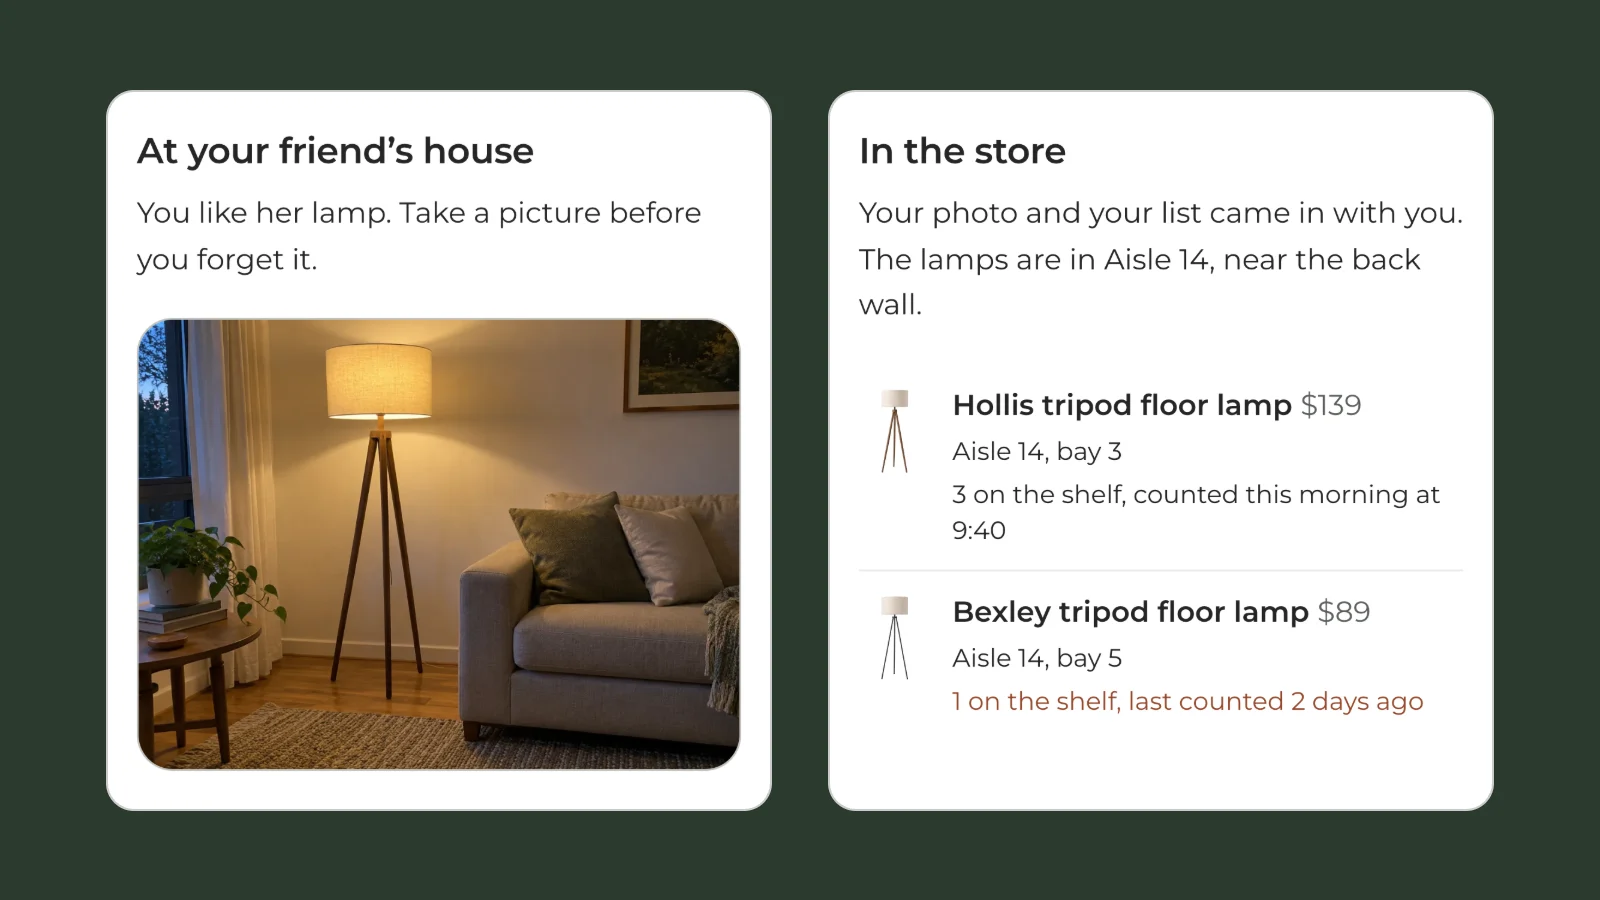
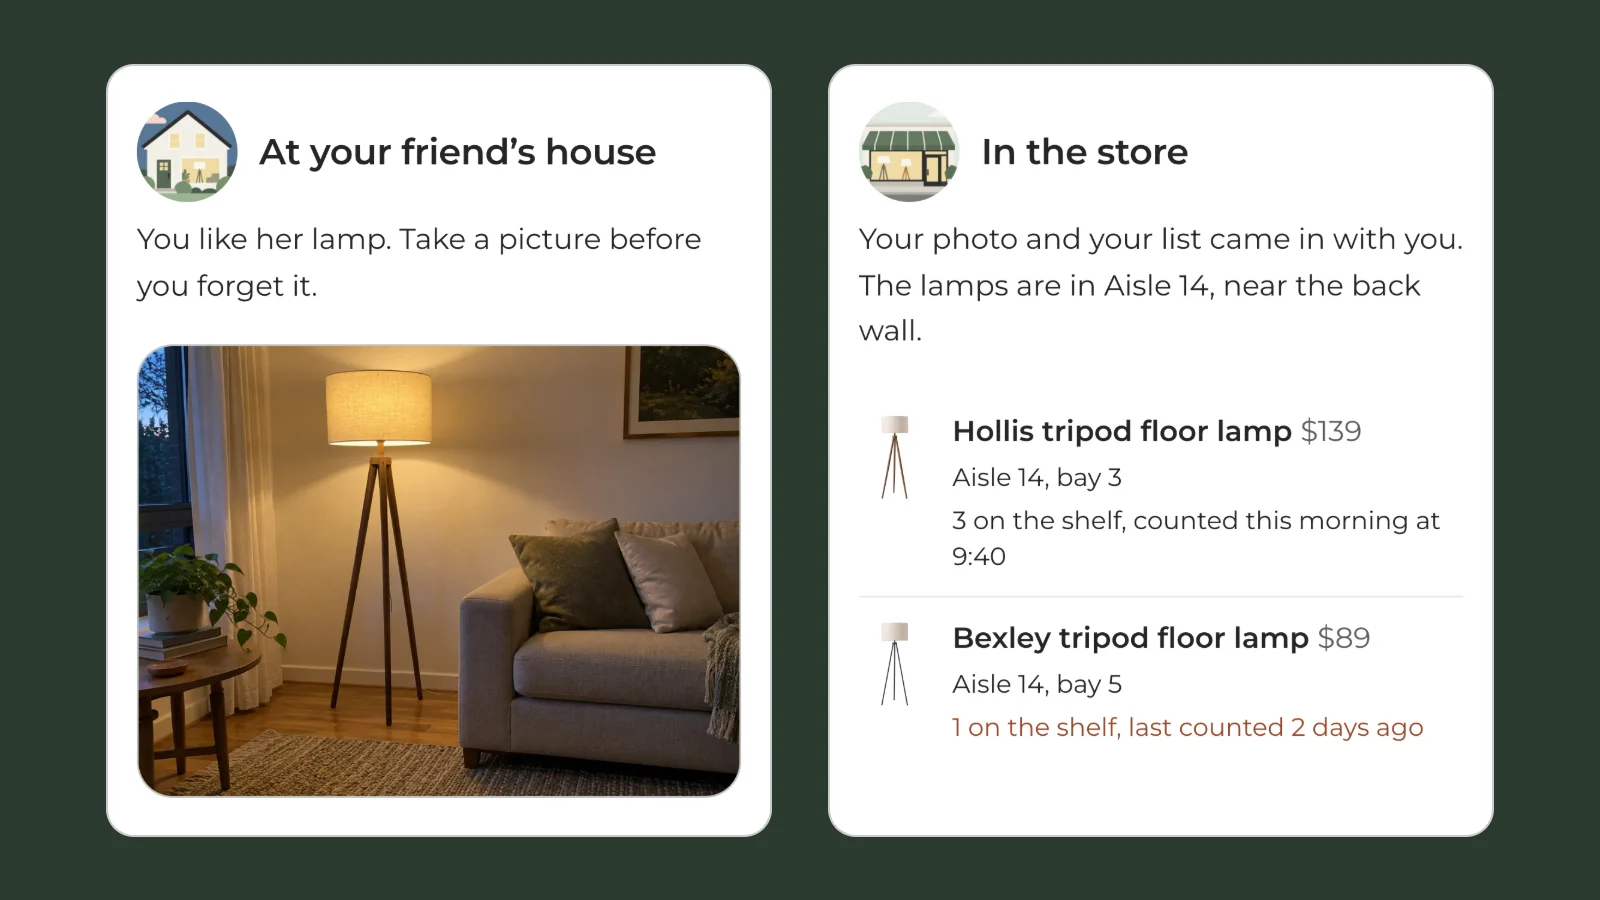
From Inspiration to Aisle: the prototype's two places carry a picture of the place. "At your friend's house" and "In the store" each open on a small drawing cut to a circle beside the title: a house at dusk with the lamp in its window, and a storefront with lamps in its window. Bold flat shapes, dra

Changed region(s): [[0.0625, 0.0622, 0.9375, 0.9333], [0.5312, 0.6533, 0.9062, 0.84], [0.5312, 0.4356, 0.9062, 0.6222]]

diff --git a/prototype/aisle.js b/prototype/aisle.js
@@ -101,6 +101,15 @@
     return '<img class="ai-art" src="../img/lab/' + art + '?v=1" width="240" height="300" decoding="async" alt="">';
   }
 
+  /* ---------- the title's badge ----------
+     A small drawing in a circle beside the title on the two screens that
+     are a place: the friend's house and the store. Drawn in ChatGPT as one
+     sheet and cut by scripts/aisle-badges.mjs; alt="", the title is the text. */
+  function titled(kind, title) {
+    return '<div class="ai-head-row"><img class="ai-badge" src="../img/lab/aisle-badge-' + kind + '.webp?v=1" width="192" height="192" decoding="async" alt="">' +
+      '<h3 class="ai-title" tabindex="-1">' + title + '</h3></div>';
+  }
+
   /* ---------- small helpers ---------- */
 
   function dollars(n) { return '$' + n; }
@@ -124,7 +133,7 @@
   var screens = {};
 
   screens.home = function () {
-    return '<header class="ai-head">' + '<h3 class="ai-title" tabindex="-1">At your friend’s house</h3>' +
+    return '<header class="ai-head">' + titled('house', 'At your friend’s house') +
       '<p class="ai-dek">You like her lamp. Take a picture before you forget it.</p></header>' +
       '<figure class="ai-photo">' +
         '<div class="ai-photo-frame"><img class="ai-photo-img" src="../img/lab/aisle-maya-photo.webp?v=1" width="1200" height="900" decoding="async" alt="The lamp in your friend’s living room, lit, between a side table and the sofa."></div>' +
@@ -193,7 +202,7 @@
   screens.store = function () {
     var saved = savedLamps();
     var s = back('plan', 'Before you go') +
-      '<header class="ai-head"><h3 class="ai-title" tabindex="-1">In the store</h3>' +
+      '<header class="ai-head">' + titled('store', 'In the store') +
       '<p class="ai-dek">Your photo and your list came in with you. The lamps are in Aisle 14, near the back wall.</p></header>' +
       '<ul class="ai-saved">';
     saved.forEach(function (l) {

diff --git a/lab/inspiration-to-aisle.html b/lab/inspiration-to-aisle.html
@@ -223,7 +223,7 @@
         </div>
         <figure class="ia-hero-art">
         <figure class="ia-hero-art">
-          <div class="build-phone"><img src="../img/lab/aisle-arrive.webp?v=3" width="736" height="1124" fetchpriority="high" decoding="async"
+          <div class="build-phone"><img src="../img/lab/aisle-arrive.webp?v=4" width="736" height="1182" fetchpriority="high" decoding="async"
                alt="The prototype's In the store screen: your photo and your list came in with you, the lamps are in Aisle 14. The two saved lamps with their bays and shelf counts, one counted this morning and one last counted 2 days ago in the caution ink, and a button to compare them side by side." /></div>
         </figure>
       </div>
@@ -387,7 +387,7 @@
             <figcaption><strong>Before the trip.</strong> The counts, with their age.</figcaption>
           </figure>
           <figure>
-            <div class="build-phone"><img src="../img/lab/aisle-store.webp?v=3" width="736" height="1520" loading="lazy" decoding="async" alt="The In the store screen: the two saved lamps with their bays, a side-by-side comparison data table of height, shade, legs, dimming, bulb, price, and where, and two buttons: I don't see the Bexley, and Ask someone in Home." /></div>
+            <div class="build-phone"><img src="../img/lab/aisle-store.webp?v=4" width="736" height="1520" loading="lazy" decoding="async" alt="The In the store screen: the two saved lamps with their bays, a side-by-side comparison data table of height, shade, legs, dimming, bulb, price, and where, and two buttons: I don't see the Bexley, and Ask someone in Home." /></div>
             <figcaption><strong>In the aisle.</strong> The comparison, and a person one press away.</figcaption>
           </figure>
         </div>

diff --git a/prototype/aisle.html b/prototype/aisle.html
@@ -101,7 +101,7 @@
   <link rel="stylesheet" href="../site-nav.css?v=20261026a" />
   <link rel="stylesheet" href="../read-aloud.css?v=7" />
   <link rel="stylesheet" href="../related.css?v=2" />
-  <link rel="stylesheet" href="aisle.css?v=3" />
+  <link rel="stylesheet" href="aisle.css?v=4" />
   <script src="../site-nav.js?v=20260906a" defer></script>
   <!-- "Listen to this page" reads the writing around the prototype and not
        the prototype: the phone is marked data-read-aloud="skip", because its
@@ -110,7 +110,7 @@
   <script src="../read-aloud.js?v=4" defer></script>
   <!-- The prototype. Deferred, no dependencies, no build step; the lamps,
        the store and the counts are the objects at the top of the file. -->
-  <script src="aisle.js?v=4" defer></script>
+  <script src="aisle.js?v=5" defer></script>
   <!-- The header logo plays a one-shot reveal clip on load and fades out
        over the static mark as it finishes. The class is set here, before
        first paint, so the static mark never flashes ahead of the animation;

diff --git a/lab/index.html b/lab/index.html
@@ -300,7 +300,7 @@
                says so in its dek, as the page does in its first screen. -->
           <li class="writing-item">
             <a class="writing-link" href="inspiration-to-aisle.html">
-              <img class="writing-card" src="../img/lab/aisle-card.webp?v=6" width="1600" height="900" alt="" decoding="async" />
+              <img class="writing-card" src="../img/lab/aisle-card.webp?v=7" width="1600" height="900" alt="" decoding="async" />
               <div class="writing-text">
                 <h3 class="writing-title">From Inspiration to Aisle: one shopping trip, carried across phone, store, and person</h3>
                 <p class="writing-dek">A photo of a friend&rsquo;s lamp, four matches that say why, and a trip into a store with the context intact. An independent concept on sample data, not tested with shoppers yet.</p>

diff --git a/prototype/aisle.css b/prototype/aisle.css
@@ -130,6 +130,18 @@
    class-and-element and would otherwise set the app's lines at --text-lg
    on reading leading (the lesson dispatch-cockpit.css records). */
 .ai-app .ai-head { margin-bottom: var(--space-lg); }
+.ai-app .ai-head-row { display: flex; align-items: center; gap: var(--space-sm); margin-bottom: var(--space-xs); }
+.ai-app .ai-head-row .ai-title { margin: 0; }
+/* The badge is the place's drawing cut to a circle; 3.5rem is two 24px
+   lines of the title, so it sits level with a title that wraps. */
+.ai-app .ai-badge {
+  flex: none;
+  display: block;
+  width: 3.5rem;
+  height: 3.5rem;
+  border-radius: 50%;
+  object-fit: cover;
+}
 .ai-app .ai-title {
   margin: 0 0 var(--space-xs);
   font-family: var(--font-sans);

diff --git a/index.html b/index.html
@@ -999,7 +999,7 @@
                friend's and in the store, legible at half the section. -->
           <div class="case-card case-card--lab reveal">
             <a class="case-thumb case-thumb--ringed" href="lab/inspiration-to-aisle.html" aria-label="Read the Inspiration to Aisle case study: one shopping trip, from a friend&rsquo;s lamp to the store aisle">
-              <img decoding="async" loading="lazy" src="img/lab/aisle-card.webp?v=6" alt="" width="1600" height="900"/>
+              <img decoding="async" loading="lazy" src="img/lab/aisle-card.webp?v=7" alt="" width="1600" height="900"/>
             </a>
             <div class="case-card-body">
               <h3>One shopping trip, carried from a phone into the store.</h3>

diff --git a/case-study/this-site.html b/case-study/this-site.html
@@ -224,7 +224,7 @@
           <dl class="glance-facts">
             <div><dt>Role</dt><dd>Everything: the design, the code, the checks that hold them together</dd></div>
             <div><dt>Built with</dt><dd>HTML and CSS, Node scripts, and one Chrome that measures every page</dd></div>
-            <div><dt>Size</dt><dd>42 pages, 3 token files, 4 specs, 39 scripts</dd></div>
+            <div><dt>Size</dt><dd>42 pages, 3 token files, 4 specs, 40 scripts</dd></div>
             <div><dt>Status</dt><dd>Live. Every merge deploys; there is no staging in front of it</dd></div>
           </dl>
         </div>
